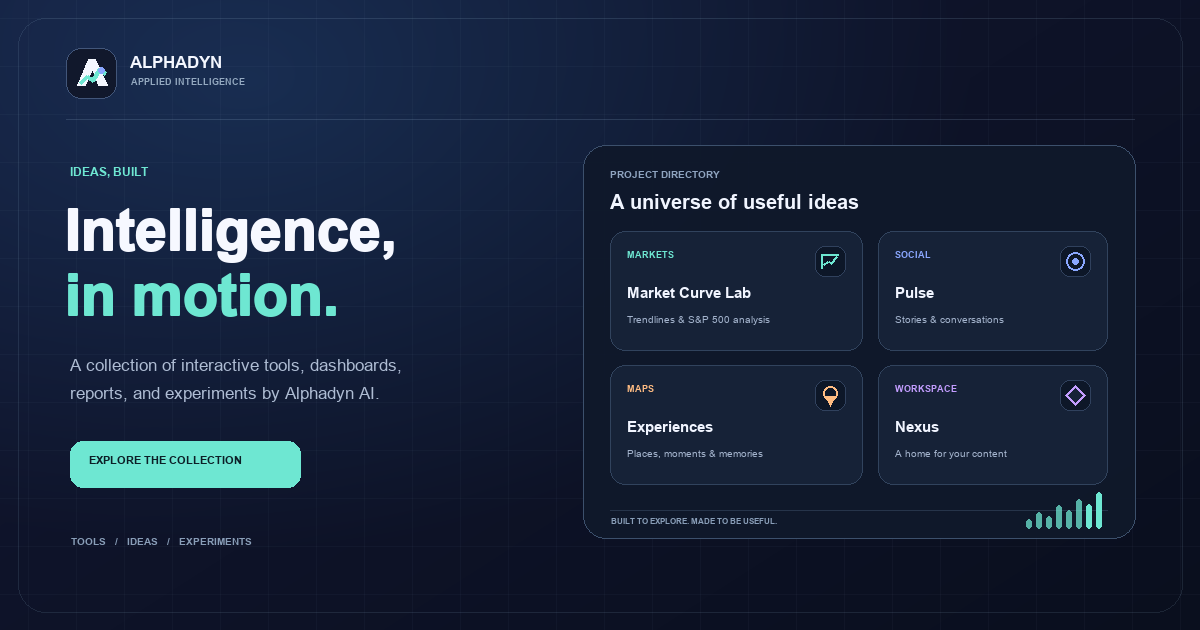
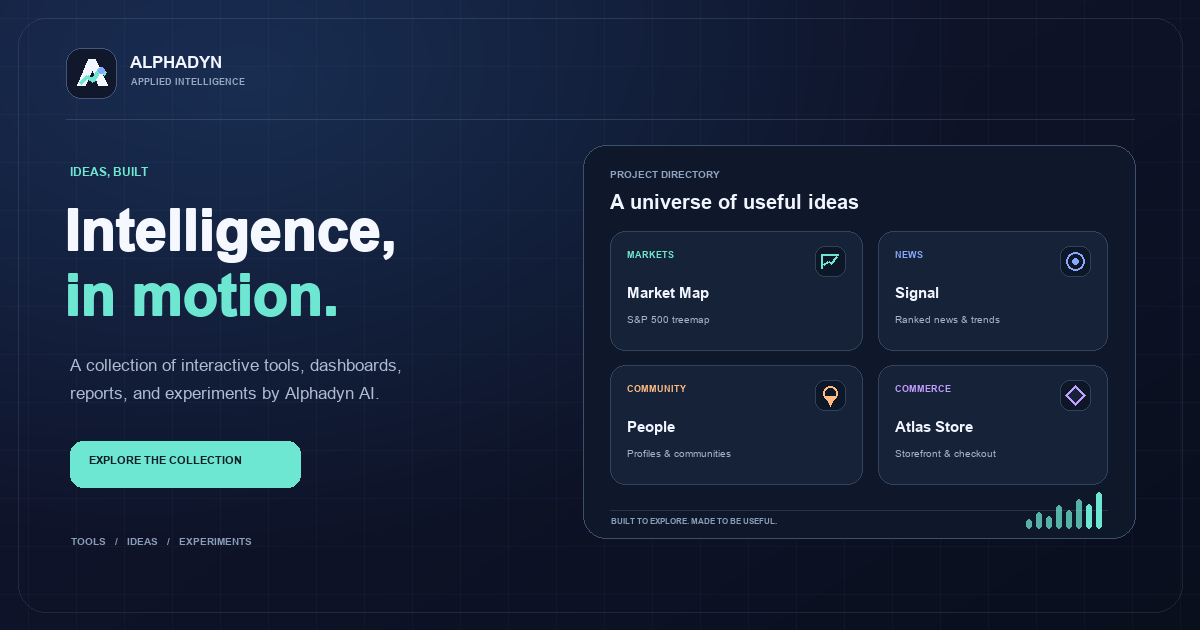
Update landing page social preview

diff --git a/index.html b/index.html
@@ -5,25 +5,25 @@
   <meta charset="UTF-8">
   <meta name="viewport" content="width=device-width, initial-scale=1">
   <title>Alphadyn Apps</title>
-  <meta name="description" content="Explore 20 interactive tools, dashboards, and experiments built by Alphadyn AI.">
+  <meta name="description" content="Explore 20 interactive apps and experiments from Alphadyn AI, including Market Map, Signal, People, and Atlas Store.">
   <meta name="theme-color" content="#0b1020">
   <link rel="canonical" href="https://alphadyn.github.io/apps/">
   <meta property="og:type" content="website">
   <meta property="og:site_name" content="Alphadyn AI">
   <meta property="og:url" content="https://alphadyn.github.io/apps/">
   <meta property="og:title" content="Alphadyn Apps">
-  <meta property="og:description" content="A collection of 20 interactive tools, dashboards, and experiments by Alphadyn AI.">
-  <meta property="og:image" content="https://alphadyn.github.io/apps/social-preview.png">
-  <meta property="og:image:secure_url" content="https://alphadyn.github.io/apps/social-preview.png">
+  <meta property="og:description" content="Explore 20 interactive apps and experiments from Alphadyn AI, featuring Market Map, Signal, People, and Atlas Store.">
+  <meta property="og:image" content="https://alphadyn.github.io/apps/social-preview.png?v=2">
+  <meta property="og:image:secure_url" content="https://alphadyn.github.io/apps/social-preview.png?v=2">
   <meta property="og:image:type" content="image/png">
   <meta property="og:image:width" content="1200">
   <meta property="og:image:height" content="630">
-  <meta property="og:image:alt" content="Alphadyn AI portfolio featuring Market Curve Lab, Pulse, Experiences, and Nexus.">
+  <meta property="og:image:alt" content="Alphadyn AI apps featuring Market Map, Signal, People, and Atlas Store.">
   <meta name="twitter:card" content="summary_large_image">
   <meta name="twitter:title" content="Alphadyn Apps">
-  <meta name="twitter:description" content="A collection of 20 interactive tools, dashboards, and experiments by Alphadyn AI.">
-  <meta name="twitter:image" content="https://alphadyn.github.io/apps/social-preview.png">
-  <meta name="twitter:image:alt" content="Alphadyn AI portfolio featuring Market Curve Lab, Pulse, Experiences, and Nexus.">
+  <meta name="twitter:description" content="Explore 20 interactive apps and experiments from Alphadyn AI, featuring Market Map, Signal, People, and Atlas Store.">
+  <meta name="twitter:image" content="https://alphadyn.github.io/apps/social-preview.png?v=2">
+  <meta name="twitter:image:alt" content="Alphadyn AI apps featuring Market Map, Signal, People, and Atlas Store.">
   <link rel="icon" href="alphadyn-ai-mark.svg" type="image/svg+xml">
   <style>
     :root { color-scheme: dark; --bg: #090e1b; --panel: #121b2d; --line: #2b3a58; --text: #f4f7ff; --muted: #a4b1ca; --accent: #6ee7d2; --accent-2: #8aa7ff; }

diff --git a/share-preview.html b/share-preview.html
@@ -118,7 +118,7 @@
               <img class="cover" src="social-preview.png" alt="Alphadyn AI portfolio share image">
               <div class="copy">
                 <h1>Alphadyn AI — Apps, Ideas &amp; Experiments</h1>
-                <p class="description">A collection of interactive tools, dashboards, reports, and experiments by Alphadyn AI.</p>
+                <p class="description">Explore 20 interactive apps and experiments, featuring Market Map, Signal, People, and Atlas Store.</p>
                 <span class="domain"><img src="alphadyn-ai-mark.svg" alt=""> alphadyn.github.io</span>
               </div>
             </a>

diff --git a/scripts/generate_social_preview.py b/scripts/generate_social_preview.py
@@ -66,10 +66,10 @@ rounded(draw, (583, 145, 1135, 538), 23, (15, 24, 42, 242), (92, 119, 154, 150),
 draw.text((610, 168), "PROJECT DIRECTORY", font=font(10, True), fill=(143, 164, 192, 255))
 draw.text((610, 190), "A universe of useful ideas", font=font(20, True), fill=(241, 245, 255, 255))
 cards = [
-    ((610, 231, 862, 350), "MARKETS", "Market Curve Lab", "Trendlines & S&P 500 analysis", (110, 231, 210, 255), "chart"),
-    ((878, 231, 1107, 350), "SOCIAL", "Pulse", "Stories & conversations", (138, 167, 255, 255), "pulse"),
-    ((610, 365, 862, 484), "MAPS", "Experiences", "Places, moments & memories", (255, 188, 130, 255), "pin"),
-    ((878, 365, 1107, 484), "WORKSPACE", "Nexus", "A home for your content", (195, 157, 255, 255), "diamond"),
+    ((610, 231, 862, 350), "MARKETS", "Market Map", "S&P 500 treemap", (110, 231, 210, 255), "chart"),
+    ((878, 231, 1107, 350), "NEWS", "Signal", "Ranked news & trends", (138, 167, 255, 255), "pulse"),
+    ((610, 365, 862, 484), "COMMUNITY", "People", "Profiles & communities", (255, 188, 130, 255), "pin"),
+    ((878, 365, 1107, 484), "COMMERCE", "Atlas Store", "Storefront & checkout", (195, 157, 255, 255), "diamond"),
 ]
 for box, category, title, desc, accent, mark in cards:
     rounded(draw, box, 15, (22, 34, 55, 255), (63, 83, 112, 170), 1)
